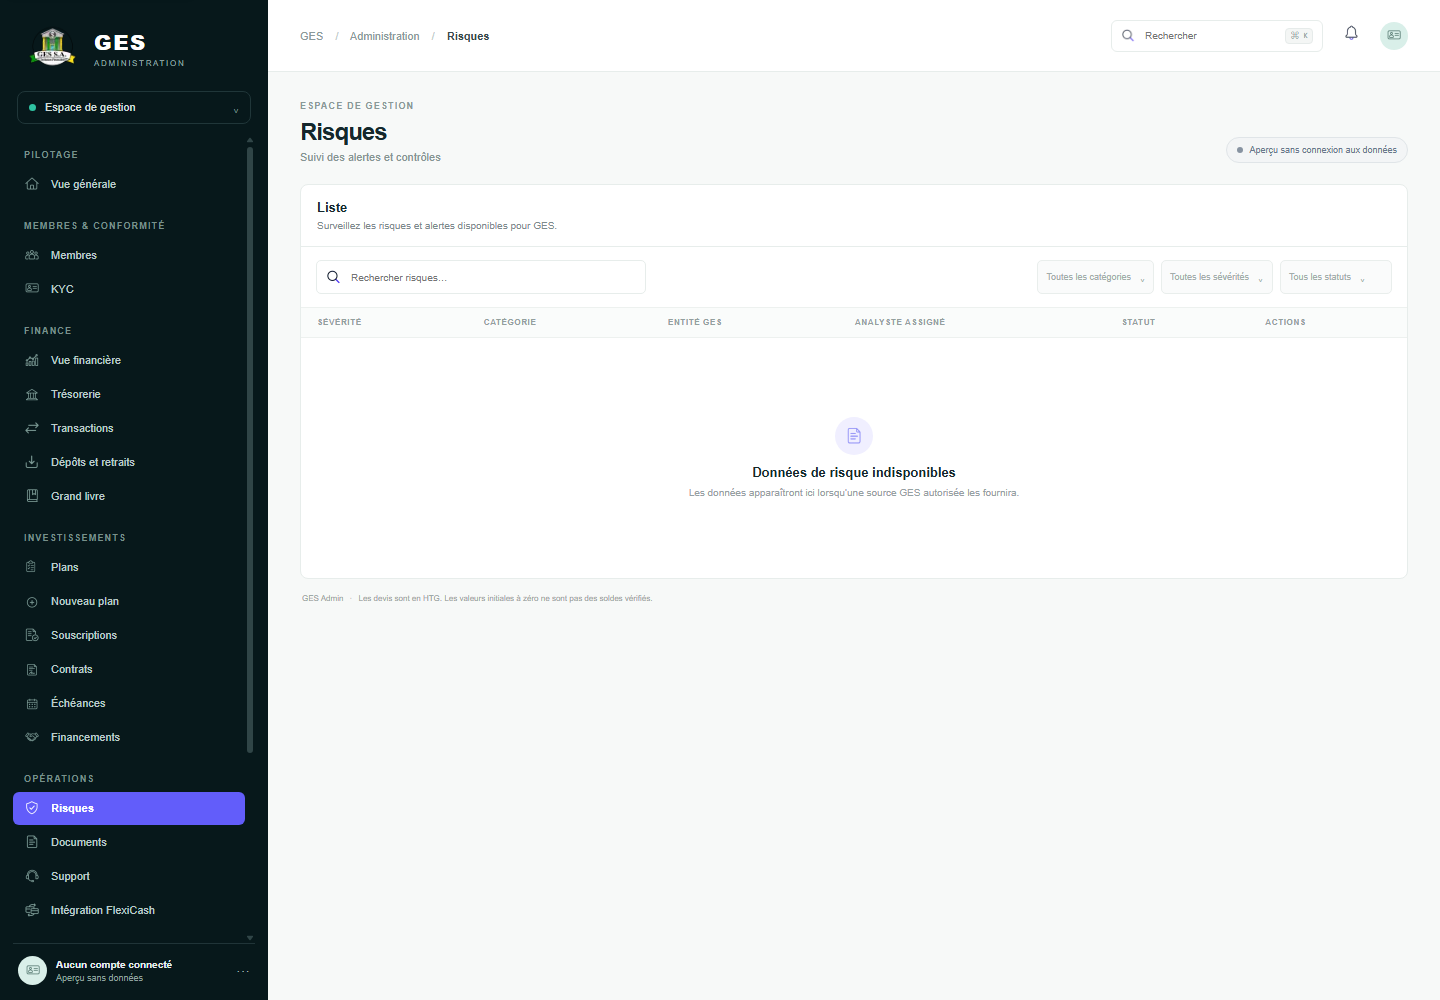
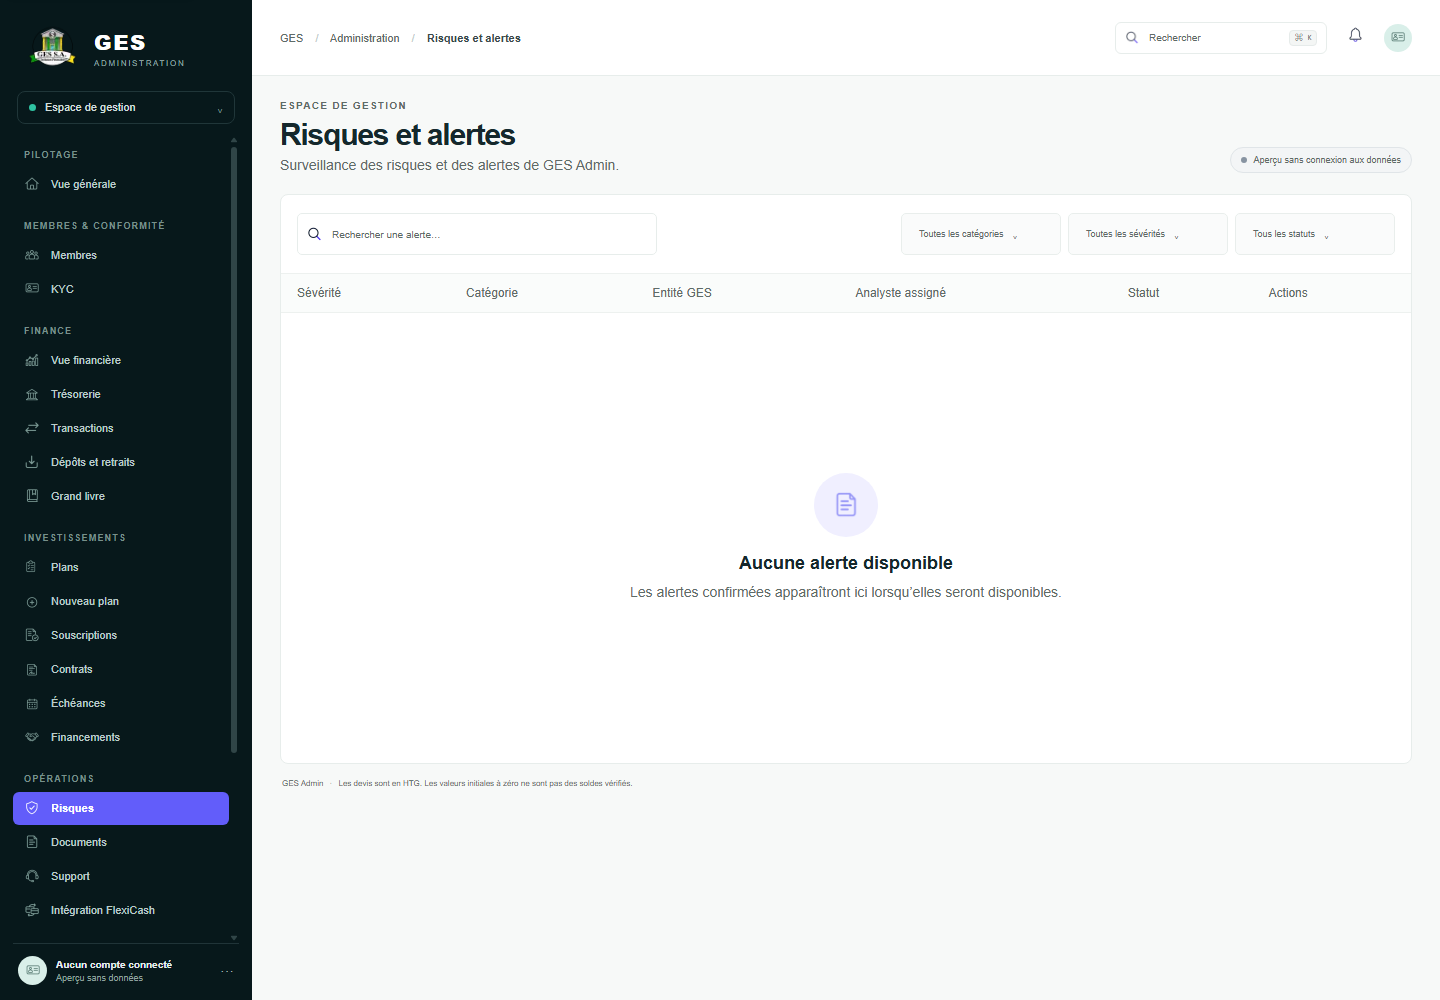
Align risk alerts with MF-22

diff --git a/components/admin-shell.tsx b/components/admin-shell.tsx
@@ -26,7 +26,7 @@ const pages: Record<string, { title: string; subtitle: string }> = {
   "vue-financiere": { title: "Vue financière générale", subtitle: "Aperçu de la position financière de GES Admin en HTG et USD." }, tresorerie: { title: "Trésorerie", subtitle: "Positions de trésorerie" }, transactions: { title: "Transactions", subtitle: "Consultez et gérez l’ensemble des transactions." },
   "depots-retraits": { title: "Dépôts et retraits", subtitle: "Suivi des mouvements entrants et sortants" }, "grand-livre": { title: "Grand livre et rapprochement", subtitle: "Consultation du grand livre comptable et rapprochement des soldes." }, plans: { title: "Catalogue des plans d’investissement", subtitle: "Vue d’ensemble des plans d’investissement autorisés sur GES Admin." },
   souscriptions: { title: "Souscriptions", subtitle: "Vue d’ensemble des souscriptions effectuées sur GES Admin." }, contrats: { title: "Contrats d’investissement", subtitle: "Liste des contrats d’investissement enregistrés dans GES Admin." }, echeances: { title: "Échéances et distributions", subtitle: "Suivi des échéances et des distributions de capital et d’intérêts." }, financements: { title: "Financements GES", subtitle: "Gestion des dossiers de financement du GES Admin." }, "plans/nouveau": { title: "Nouveau plan d’investissement", subtitle: "Créer un nouveau plan d’investissement (brouillon)." },
-  risques: { title: "Risques", subtitle: "Suivi des alertes et contrôles" }, documents: { title: "Documents", subtitle: "Bibliothèque documentaire" }, support: { title: "Support", subtitle: "Demandes d’assistance" }, rapports: { title: "Rapports", subtitle: "Rapports de gestion" }, equipe: { title: "Équipe", subtitle: "Accès et rôles de l’équipe" }, audit: { title: "Audit", subtitle: "Journal des actions administratives" }, parametres: { title: "Paramètres", subtitle: "Configuration de l’espace" }, notifications: { title: "Notifications", subtitle: "Centre de notifications administratives" }, "roles-permissions": { title: "Rôles et permissions", subtitle: "Les permissions effectives sont contrôlées côté serveur" }, "integrations-flexicash": { title: "Intégration FlexiCash", subtitle: "Les espaces GES et FlexiCash restent séparés" },
+  risques: { title: "Risques et alertes", subtitle: "Surveillance des risques et des alertes de GES Admin." }, documents: { title: "Documents", subtitle: "Bibliothèque documentaire" }, support: { title: "Support", subtitle: "Demandes d’assistance" }, rapports: { title: "Rapports", subtitle: "Rapports de gestion" }, equipe: { title: "Équipe", subtitle: "Accès et rôles de l’équipe" }, audit: { title: "Audit", subtitle: "Journal des actions administratives" }, parametres: { title: "Paramètres", subtitle: "Configuration de l’espace" }, notifications: { title: "Notifications", subtitle: "Centre de notifications administratives" }, "roles-permissions": { title: "Rôles et permissions", subtitle: "Les permissions effectives sont contrôlées côté serveur" }, "integrations-flexicash": { title: "Intégration FlexiCash", subtitle: "Les espaces GES et FlexiCash restent séparés" },
 };
 
 const detailPages: Record<string, { title: string; subtitle: string }> = {

diff --git a/components/module-workspace.tsx b/components/module-workspace.tsx
@@ -24,7 +24,7 @@ const pages: Record<string, ModulePage> = {
   souscriptions: { description: "Consultez les souscriptions retournées par une source GES autorisée.", searchPlaceholder: "Rechercher une souscription…", filters: ["Tous les statuts", "Tous les plans"], columns: ["Date", "Plan", "Membre", "Montant investi (HTG)", "Statut", "Actions"], empty: "Données de souscription indisponibles" },
   contrats: { description: "Registre des contrats d’investissement retournés par une source GES autorisée.", searchPlaceholder: "Rechercher un contrat…", filters: ["Tous les statuts", "Tous les plans", "Sélectionner une période"], columns: ["Contrat", "Membre", "Plan", "Principal (HTG)", "Date de début", "Échéance", "Statut", "Documents"], empty: "Aucun contrat à afficher" },
   financements: { description: "Dossiers de financement relevant de GES.", searchPlaceholder: "Rechercher un financement…", filters: ["Tous les statuts", "Tous les types"], columns: ["Projet ou bénéficiaire", "Montant proposé (HTG)", "Évaluation du risque", "Documents", "Statut", "Étapes"], empty: "Aucune demande de financement", emptyDescription: "Les dossiers apparaîtront ici lorsqu’ils seront disponibles." },
-  risques: { description: "Surveillez les risques et alertes disponibles pour GES.", filters: ["Toutes les catégories", "Toutes les sévérités", "Tous les statuts"], columns: ["SÉVÉRITÉ", "CATÉGORIE", "ENTITÉ GES", "ANALYSTE ASSIGNÉ", "STATUT", "ACTIONS"], empty: "Données de risque indisponibles" },
+  risques: { description: "Surveillez les risques et alertes disponibles pour GES.", searchPlaceholder: "Rechercher une alerte…", filters: ["Toutes les catégories", "Toutes les sévérités", "Tous les statuts"], columns: ["Sévérité", "Catégorie", "Entité GES", "Analyste assigné", "Statut", "Actions"], empty: "Aucune alerte disponible", emptyDescription: "Les alertes confirmées apparaîtront ici lorsqu’elles seront disponibles." },
   documents: { description: "Documents disponibles dans les espaces GES autorisés.", filters: ["Tous les types"], columns: ["DOCUMENT", "CATÉGORIE", "LIÉ À", "MODIFIÉ LE", "ÉTAT"], empty: "Données documentaires indisponibles" },
   support: { description: "Demandes d’assistance GES disponibles.", filters: ["Tous les statuts", "Toutes les catégories", "Toutes les priorités"], columns: ["SUJET", "MEMBRE", "CATÉGORIE", "PRIORITÉ", "STATUT", "DERNIÈRE MISE À JOUR", "ACTIONS"], empty: "Données d’assistance indisponibles" },
   equipe: { description: "Administrateurs et accès GES autorisés.", filters: ["Tous les rôles", "Tous les statuts"], columns: ["ADMINISTRATEUR", "RÔLE", "PERMISSIONS", "STATUT", "DERNIÈRE CONNEXION", "ACTIONS"], empty: "Données d’administration indisponibles" },

diff --git a/design/project-status.md b/design/project-status.md
@@ -61,3 +61,5 @@ Revue MF-19 (29 octobre 2026) : retour avant le titre; conditions versionnees, h
 Revue MF-20 (29 octobre 2026) : calendrier sans jour numerote ni date fictive, controles de periode desactives, liste des echeances distincte et etat vide clarifie. Capital a distribuer et interets a distribuer restent a 0 HTG, marques comme valeurs initiales a confirmer. Chrome confirme l'etat vide et aucune largeur de page superieure au viewport (1440/390 px).
 
 Revue MF-21 (29 octobre 2026) : titre/sous-titre, recherche, filtres et colonnes aligns sur la reference corrigee v2; Financements reste l'item actif. Liste vide sans projet, personne, somme, risque ni statut fictif; le montant propose est libelle HTG. Captures desktop/mobile confirment l'etat vide et aucune largeur de page superieure au viewport (1440/390 px).
+
+Revue MF-22 (29 octobre 2026) : titre/sous-titre, recherche, filtres et colonnes alignes sur la reference. Aucun incident inexistant, alerte, severite, entite ni analyste inventes; le filtre est neutre. Captures desktop/mobile confirment l'etat vide et aucune largeur de page superieure au viewport (1440/390 px).

diff --git a/design/qa/README.md b/design/qa/README.md
@@ -159,3 +159,5 @@ Captures MF-20 : admin-echeances-1440x1000.png et admin-echeances-390x844.png. L
 Le controle hasUnavailableState de capture-route.cjs reconnait aussi les libelles explicites du catalogue vide (ex. aucun contrat/aucune echeance a afficher), et pas uniquement le mot Donnees.
 
 Captures MF-21 : admin-financements-1440x1000.png et admin-financements-390x844.png. Recherche et filtres restent neutres; aucun dossier de financement fictif. Montant propose identifie en HTG.
+
+Captures MF-22 : admin-risques-1440x1000.png et admin-risques-390x844.png. Aucun risque ou analyste fictif; les filtres restent desactives sans source autorisee.
